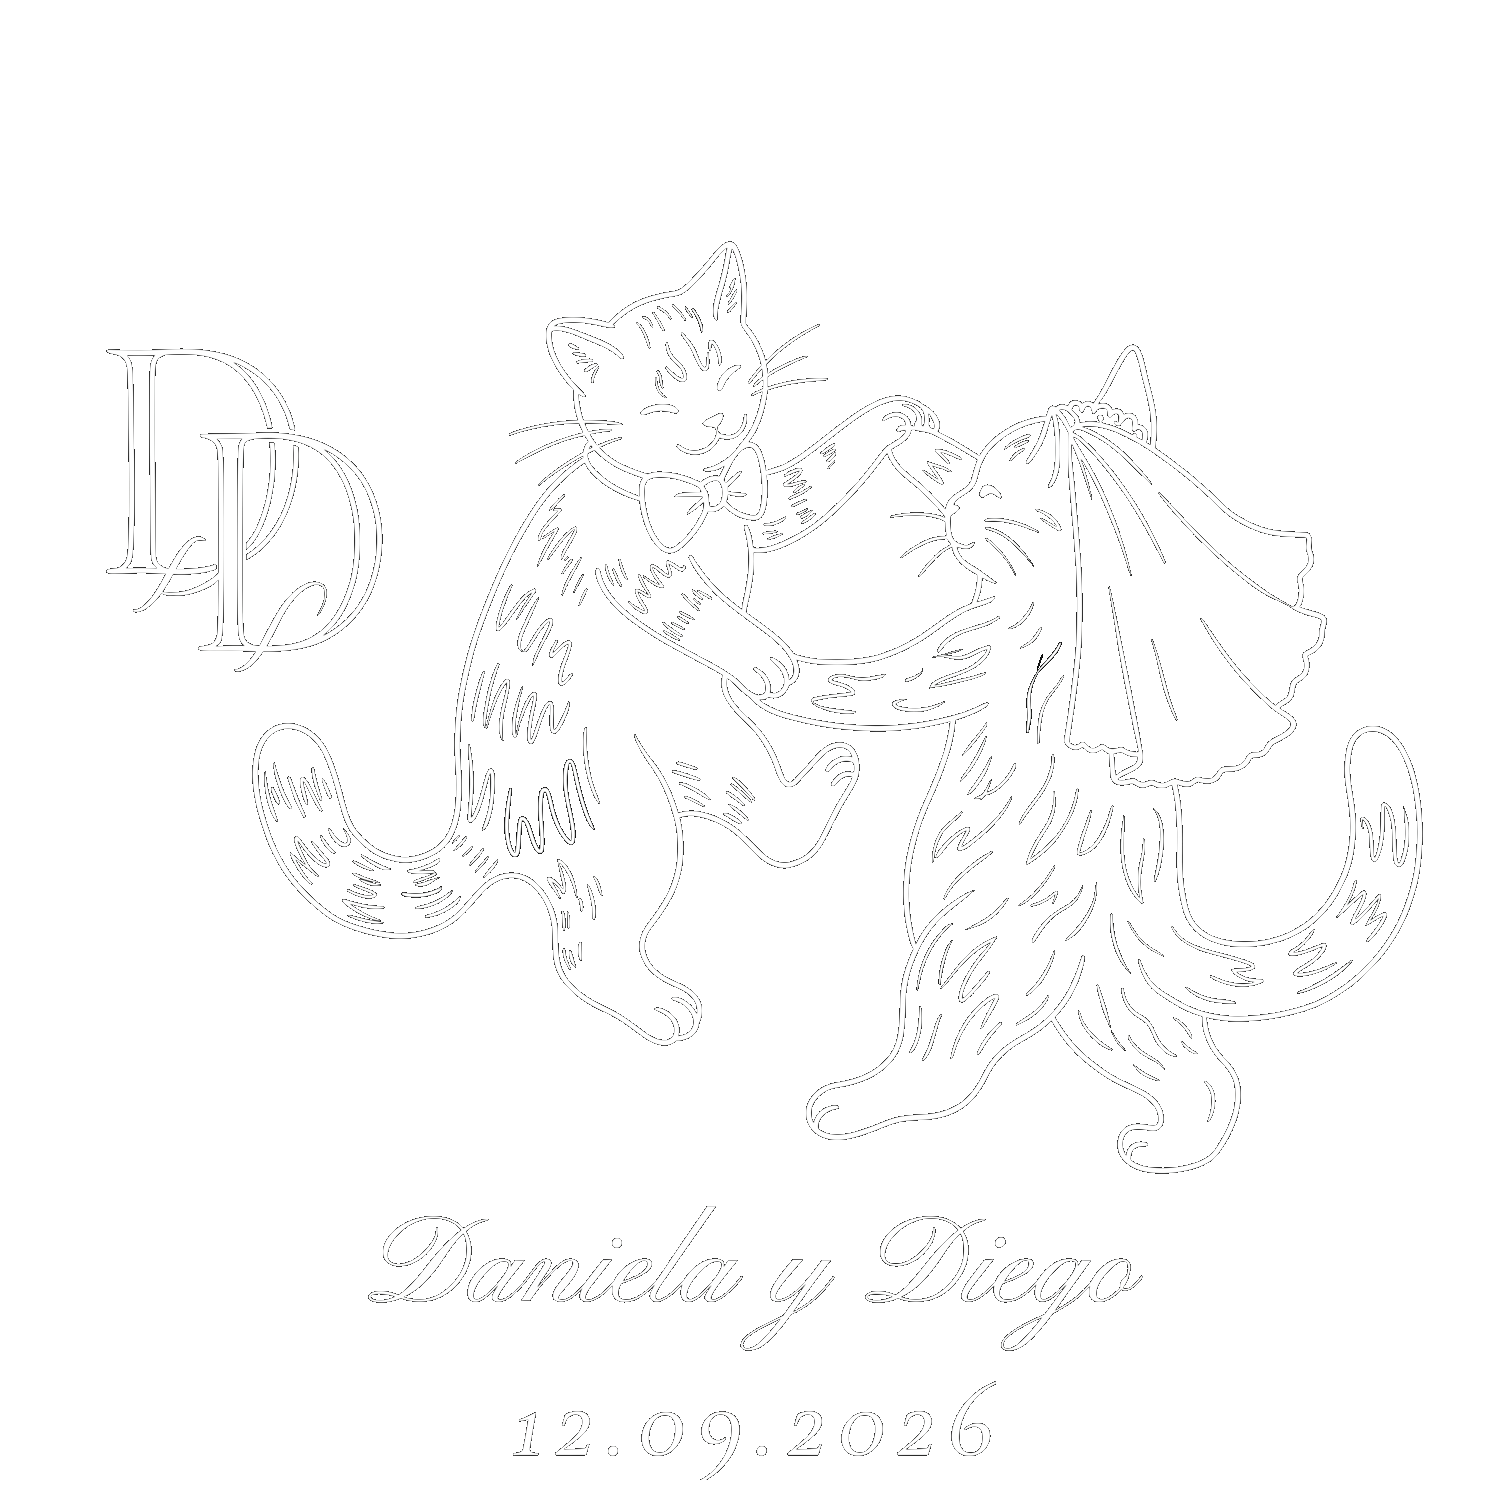
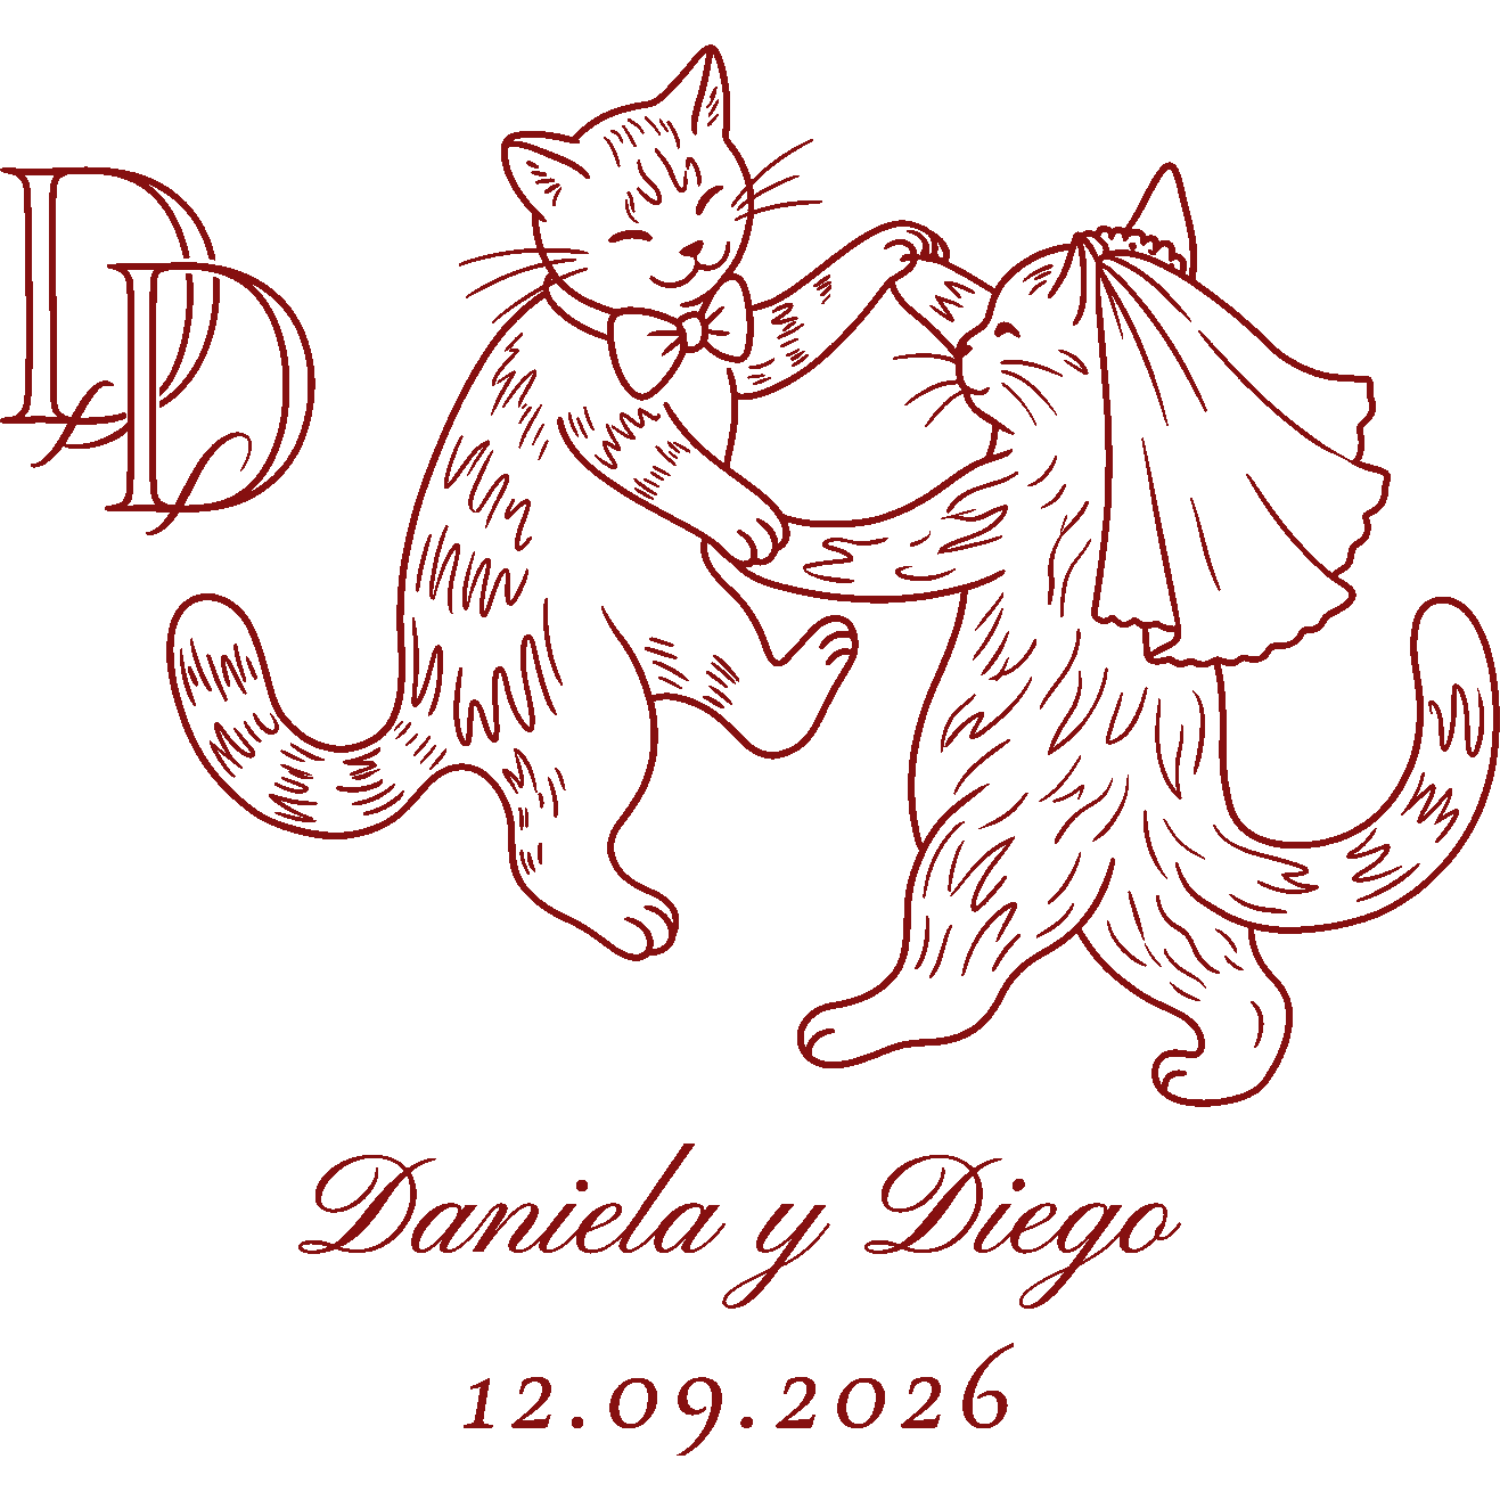
Unify color palette to new crema (#e9e3d9)
Replace the previous cream/pastel tones with a single crema color (#e9e3d9) across the site. Updated CSS variables (--crema, --azul-pastel) and adjusted component styles to use the new crema (body background, section backgrounds, final image wrapper, dresscode/sobres/rsvp sections). Swapped some text and border uses to appropriate variables (--azul, --azul-claro) and updated inline SVG wave fills in index.html to match the unified color. Also updated the final.png asset.

diff --git a/index.html b/index.html
@@ -60,7 +60,7 @@
         <!-- WAVE: crema → azul-pastel -->
         <div class="wave-sep">
             <svg viewBox="0 0 1200 70" preserveAspectRatio="none" xmlns="http://www.w3.org/2000/svg">
-                <path d="M0,35 C200,70 400,0 600,35 C800,70 1000,0 1200,35 L1200,70 L0,70 Z" fill="#f5e8eb"/>
+                <path d="M0,35 C200,70 400,0 600,35 C800,70 1000,0 1200,35 L1200,70 L0,70 Z" fill="#e9e3d9"/>
             </svg>
         </div>
 
@@ -80,9 +80,9 @@
         </section>
 
         <!-- WAVE: vino-pastel → crema -->
-        <div class="wave-sep" style="background:#f5e8eb">
+        <div class="wave-sep" style="background:#e9e3d9">
             <svg viewBox="0 0 1200 70" preserveAspectRatio="none" xmlns="http://www.w3.org/2000/svg">
-                <path d="M0,35 C200,0 400,70 600,35 C800,0 1000,70 1200,35 L1200,70 L0,70 Z" fill="#FAF8F3"/>
+                <path d="M0,35 C200,0 400,70 600,35 C800,0 1000,70 1200,35 L1200,70 L0,70 Z" fill="#e9e3d9"/>
             </svg>
         </div>
 
@@ -146,9 +146,9 @@
         </section>
 
         <!-- WAVE: crema → blanco (dresscode) -->
-        <div class="wave-sep" style="background:#FAF8F3">
+        <div class="wave-sep" style="background:#e9e3d9">
             <svg viewBox="0 0 1200 70" preserveAspectRatio="none" xmlns="http://www.w3.org/2000/svg">
-                <path d="M0,35 C200,70 400,0 600,35 C800,70 1000,0 1200,35 L1200,70 L0,70 Z" fill="#ffffff"/>
+                <path d="M0,35 C200,70 400,0 600,35 C800,70 1000,0 1200,35 L1200,70 L0,70 Z" fill="#e9e3d9"/>
             </svg>
         </div>
 
@@ -168,9 +168,9 @@
         </section>
 
         <!-- WAVE: blanco → vino -->
-        <div class="wave-sep" style="background:#ffffff">
+        <div class="wave-sep" style="background:#e9e3d9">
             <svg viewBox="0 0 1200 70" preserveAspectRatio="none" xmlns="http://www.w3.org/2000/svg">
-                <path d="M0,35 C200,0 400,70 600,35 C800,0 1000,70 1200,35 L1200,70 L0,70 Z" fill="#7c263a"/>
+                <path d="M0,35 C200,0 400,70 600,35 C800,0 1000,70 1200,35 L1200,70 L0,70 Z" fill="#e9e3d9"/>
             </svg>
         </div>
 
@@ -183,9 +183,9 @@
         </section>
 
         <!-- WAVE: azul → crema -->
-        <div class="wave-sep" style="background:#7c263a">
+        <div class="wave-sep" style="background:#e9e3d9">
             <svg viewBox="0 0 1200 70" preserveAspectRatio="none" xmlns="http://www.w3.org/2000/svg">
-                <path d="M0,35 C200,70 400,0 600,35 C800,70 1000,0 1200,35 L1200,70 L0,70 Z" fill="#FAF8F3"/>
+                <path d="M0,35 C200,70 400,0 600,35 C800,70 1000,0 1200,35 L1200,70 L0,70 Z" fill="#e9e3d9"/>
             </svg>
         </div>
 
@@ -207,9 +207,9 @@
         </section>
 
         <!-- WAVE: crema → azul -->
-        <div class="wave-sep" style="background:#FAF8F3">
+        <div class="wave-sep" style="background:#e9e3d9">
             <svg viewBox="0 0 1200 70" preserveAspectRatio="none" xmlns="http://www.w3.org/2000/svg">
-                <path d="M0,35 C200,0 400,70 600,35 C800,0 1000,70 1200,35 L1200,70 L0,70 Z" fill="#7c263a"/>
+                <path d="M0,35 C200,0 400,70 600,35 C800,0 1000,70 1200,35 L1200,70 L0,70 Z" fill="#e9e3d9"/>
             </svg>
         </div>
 

diff --git a/styles5.css b/styles5.css
@@ -1,10 +1,10 @@
 :root {
-    --crema:        #FAF8F3;
+    --crema:        #e9e3d9;
     --blanco:       #ffffff;
     --azul:         #7c263a;   /* vino tinto */
     --azul-medio:   #a33450;   /* vino medio */
     --azul-claro:   #c8a0a8;   /* vino claro */
-    --azul-pastel:  #f5e8eb;   /* vino pastel */
+    --azul-pastel:  #e9e3d9;   /* crema unificado */
     --amarillo:     #d4892c;   /* amarillo quemado */
     --amarillo-suave: #fef3e0; /* amarillo muy claro */
     --verde:        #5d7e6c;   /* verde elegante */
@@ -59,7 +59,7 @@ body {
     display: flex;
     justify-content: center;
     align-items: center;
-    background: #dbb689;
+    background: #e9e3d9;
     transition: opacity 0.7s;
     overflow: hidden;
 }
@@ -300,7 +300,7 @@ h2.section-title {
     color: var(--azul);
     margin: 0 0 8px;
 }
-h2.section-title.white { color: #fff; }
+h2.section-title.white { color: var(--azul); }
 
 .section-sub {
     font-size: 0.85rem;
@@ -454,7 +454,7 @@ h2.section-title.white { color: #fff; }
 .tl-arrow-l { align-self: flex-start; margin-left: 5%; }
 
 /* ── DRESS CODE ── */
-.dresscode-section { background: var(--blanco); }
+.dresscode-section { background: var(--crema); }
 .dresscode-container { max-width: 560px; margin: 0 auto; }
 
 .dresscode-badge {
@@ -489,7 +489,7 @@ h2.section-title.white { color: #fff; }
 
 /* ── LLUVIA DE SOBRES ── */
 .sobres-section {
-    background: var(--azul);
+    background: var(--crema);
     padding: 80px var(--pad);
     position: relative;
     overflow: hidden;
@@ -516,7 +516,7 @@ h2.section-title.white { color: #fff; }
     font-size: 1rem;
     font-weight: 400;
     line-height: 1.95;
-    color: rgba(255,255,255,0.87);
+    color: var(--texto);
     margin: 14px 0 0;
     text-align: center;
 }
@@ -583,7 +583,7 @@ h2.section-title.white { color: #fff; }
 
 /* ── RSVP ── */
 .rsvp-section {
-    background: var(--azul);
+    background: var(--crema);
     padding: 100px var(--pad);
     position: relative;
     overflow: hidden;
@@ -593,7 +593,7 @@ h2.section-title.white { color: #fff; }
     font-family: var(--font-body);
     font-size: 0.85rem;
     font-weight: 500;
-    color: rgba(255,255,255,0.45);
+    color: var(--azul-medio);
     letter-spacing: 2.5px;
     margin-bottom: 44px;
     margin-top: 6px;
@@ -628,7 +628,7 @@ h2.section-title.white { color: #fff; }
     font-size: 1rem;
     font-family: var(--font-body);
     font-weight: 400;
-    border: 2px solid var(--azul-pastel);
+    border: 2px solid var(--azul-claro);
     border-radius: 12px;
     background: var(--crema);
     transition: border-color 0.3s, box-shadow 0.3s;
@@ -662,7 +662,7 @@ h2.section-title.white { color: #fff; }
     -webkit-appearance: none;
     appearance: none;
     width: 20px; height: 20px; min-width: 20px;
-    border: 2px solid var(--azul-pastel);
+    border: 2px solid var(--azul-claro);
     border-radius: 50%;
     background: var(--blanco);
     cursor: pointer;
@@ -700,7 +700,7 @@ h2.section-title.white { color: #fff; }
 
 /* ── IMAGEN FINAL ── */
 .final-img-wrap {
-    background: var(--azul);
+    background: var(--crema);
     display: flex;
     justify-content: center;
     align-items: center;
